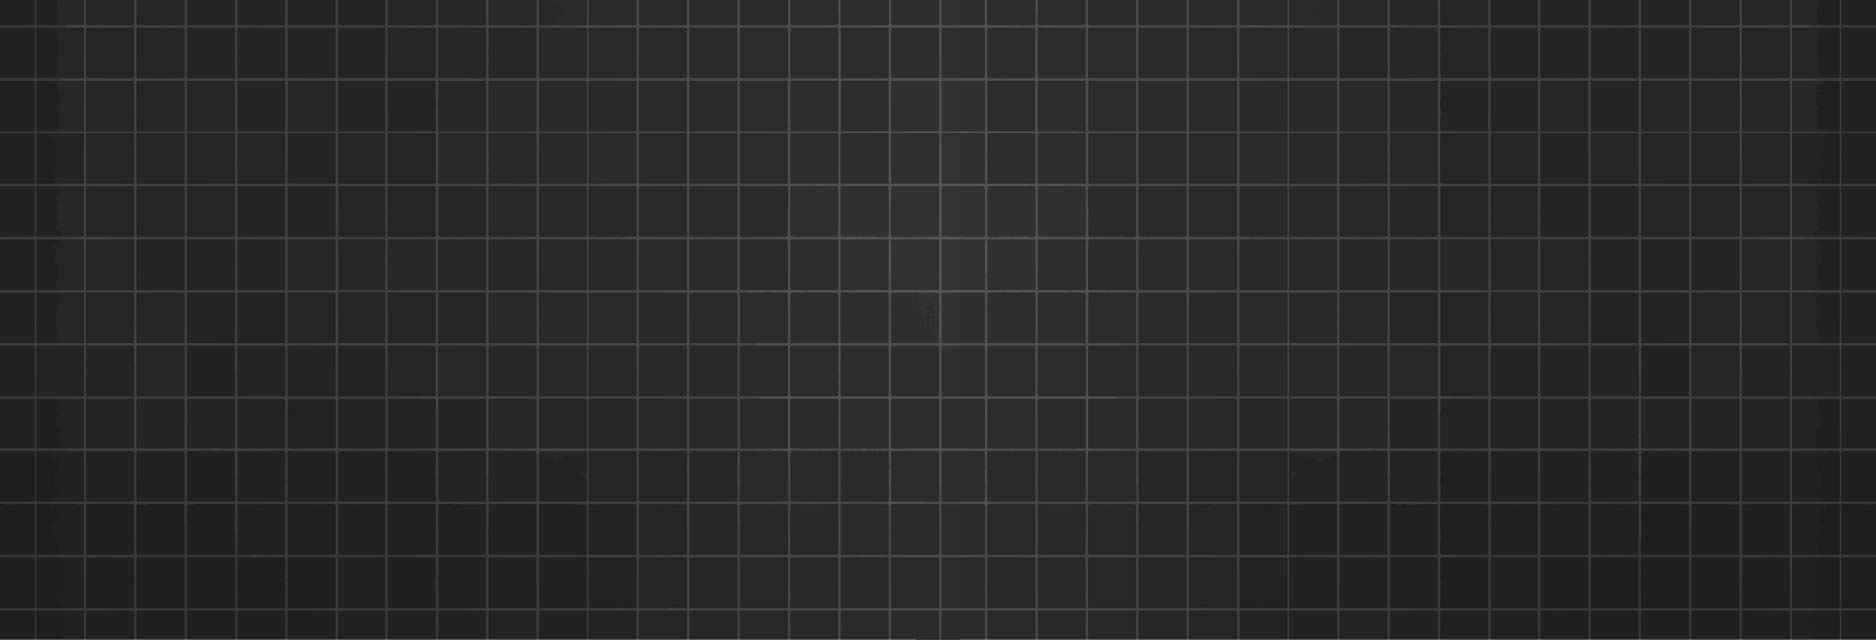
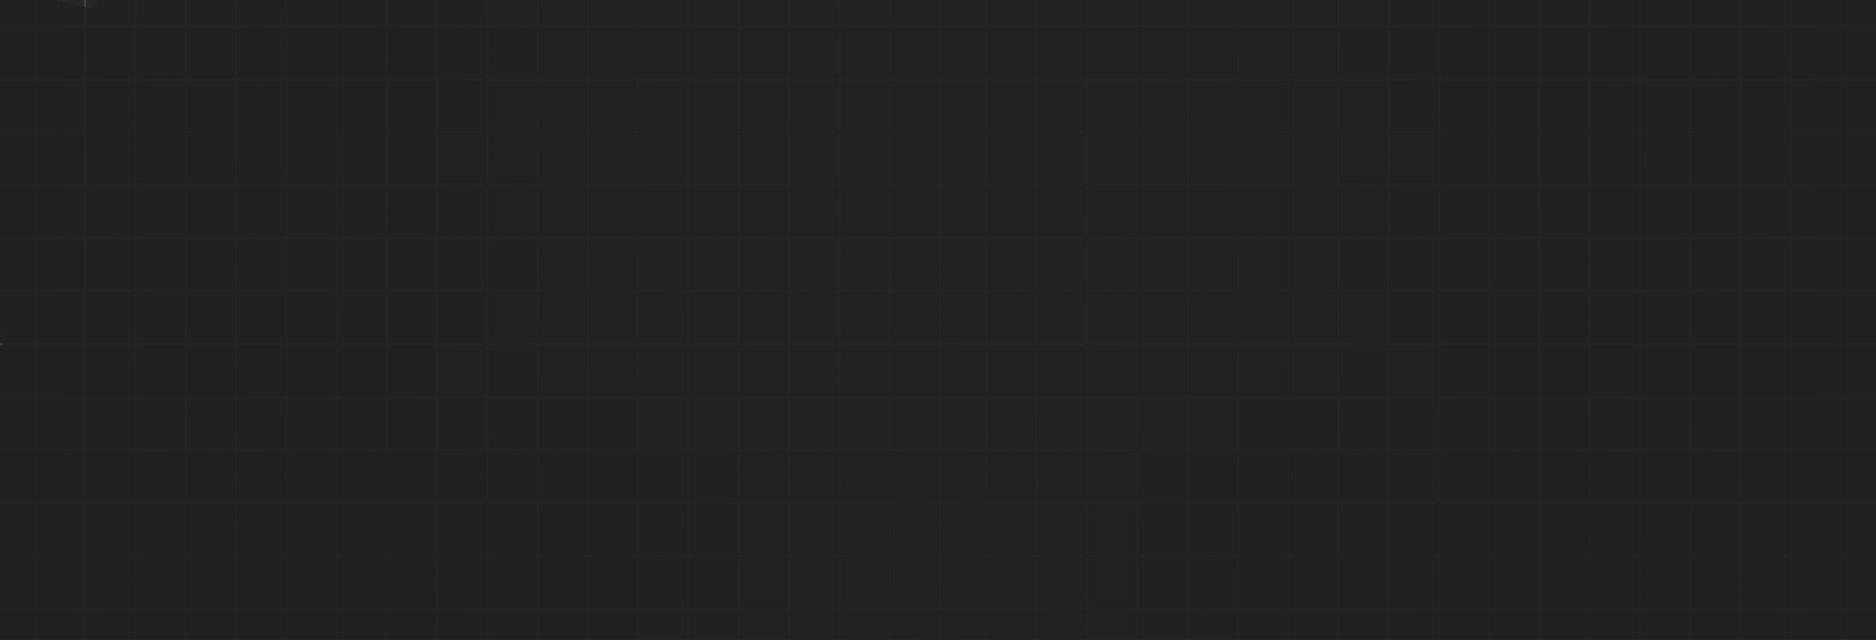
bg img

diff --git a/styles.css b/styles.css
@@ -57,12 +57,12 @@ body {
     padding: 0;
     margin: 0;
     background-color: #212121;
-    background-image: url("./images/site-bg.jpg");
+    /* background-image: url("./images/site-bg.jpg"); */
     background-attachment: fixed;
     background-repeat: repeat;
     background-position: center;
     background-size: contain;
-    background-blend-mode: soft-light;
+    /* background-blend-mode: soft-light; */
 }
 
 ul {
